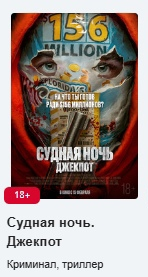
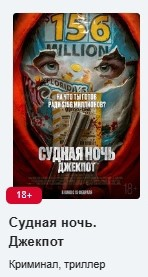
добавил наведение на кнопки
добавил затемненные фотки для изменения при наведении

diff --git a/zakaz.py b/zakaz.py
@@ -345,6 +345,8 @@ ________________________________________________________________________'''
         korz.bind('<Leave>', bk1)
         sn.grab_set()
         sn.mainloop()
+
+
 #АФИША С ВЫБОРОМ ФИЛЬМА
     def bk(e):
         korz.configure(bg=dgr)
@@ -361,15 +363,65 @@ ________________________________________________________________________'''
     lw1.pack(anchor=W)
     w1.title('Афиша')
     ik1 = PhotoImage(file='Майор Гром.png')
+    ik1t = PhotoImage(file='Майор Гром темный.png')
+    def dk1(e):
+        k1['image'] = ik1
+    def dk1t(e):
+        k1['image'] = ik1t
     ik2 = PhotoImage(file='Министерство неджентельменских дел.png')
+    ik2t = PhotoImage(file='Министерство неджентельменских дел темный.png')
+    def dk2(e):
+        k2['image'] = ik2
+    def dk2t(e):
+        k2['image'] = ik2t
     ik3 = PhotoImage(file='Планета обезьян.png')
+    ik3t = PhotoImage(file='Планета обезьян темный.png')
+    def dk3(e):
+        k3['image'] = ik3
+    def dk3t(e):
+        k3['image'] = ik3t
     ik4 = PhotoImage(file='Пушистый вояж.png')
+    ik4t = PhotoImage(file='Пушистый вояж темный.png')
+    def dk4(e):
+        k4['image'] = ik4
+    def dk4t(e):
+        k4['image'] = ik4t
     ik5 = PhotoImage(file='Сто лет тому вперед.png')
+    ik5t = PhotoImage(file='Сто лет тому вперед темный.png')
+    def dk5(e):
+        k5['image'] = ik5
+    def dk5t(e):
+        k5['image'] = ik5t
     ik6 = PhotoImage(file='незнакомцы.png')
+    ik6t = PhotoImage(file='Незнакомцы темная.png')
+    def dk6(e):
+        k6['image'] = ik6
+    def dk6t(e):
+        k6['image'] = ik6t
     ik7 = PhotoImage(file='Винни Пух.png')
+    ik7t = PhotoImage(file='Винни Пух темный.png')
+    def dk7(e):
+        k7['image'] = ik7
+    def dk7t(e):
+        k7['image'] = ik7t
     ik8 = PhotoImage(file='суперпташки.png')
+    ik8t = PhotoImage(file='суперпташки темная.png')
+    def dk8(e):
+        k8['image'] = ik8
+    def dk8t(e):
+        k8['image'] = ik8t
     ik9 = PhotoImage(file='судная ночь.png')
+    ik9t = PhotoImage(file='судная ночь темный.png')
+    def dk9(e):
+        k9['image'] = ik9
+    def dk9t(e):
+        k9['image'] = ik9t
     ik10 = PhotoImage(file='Асфальтовые джунгли.png')
+    ik10t = PhotoImage(file='Асфальтовые джунгли темный.png')
+    def dk10(e):
+        k10['image'] = ik10
+    def dk10t(e):
+        k10['image'] = ik10t
     kor = PhotoImage(file='kor.png')
 
     korz = Button(w1, image=kor, borderwidth=0, height=300, bg='#93F9B9', width=30, command=korz1, activebackground=dgr)
@@ -379,24 +431,44 @@ ________________________________________________________________________'''
 
     k1 = Button(w1, image=ik1, bg=wh, borderwidth=0, activebackground=wh, command=sn1)
     k1.place(x=0, y=0)
+    k1.bind('<Enter>', dk1t)
+    k1.bind('<Leave>', dk1)
     k2 = Button(w1, image=ik2, bg=wh, borderwidth=0, activebackground=wh, command=tof1)
     k2.place(x=153, y=0)
+    k2.bind('<Enter>', dk2t)
+    k2.bind('<Leave>', dk2)
     k3 = Button(w1, image=ik3, bg=wh, borderwidth=0, activebackground=wh, command=zam1)
     k3.place(x=303, y=0)
+    k3.bind('<Enter>', dk3t)
+    k3.bind('<Leave>', dk3)
     k4 = Button(w1, image=ik4, bg=wh, borderwidth=0, activebackground=wh, command=vit)
     k4.place(x=452, y=0)
+    k4.bind('<Enter>', dk4t)
+    k4.bind('<Leave>', dk4)
     k5 = Button(w1, image=ik5, bg=wh, borderwidth=0, activebackground=wh, command=sltn)
     k5.place(x=600, y=0)
+    k5.bind('<Enter>', dk5t)
+    k5.bind('<Leave>', dk5)
     k6 = Button(w1, image=ik6, bg=wh, borderwidth=0, activebackground=wh, command=nez)
     k6.place(x=0, y=319)
+    k6.bind('<Enter>', dk6t)
+    k6.bind('<Leave>', dk6)
     k7 = Button(w1, image=ik7, bg=wh, borderwidth=0, activebackground=wh, command=vp)
     k7.place(x=153, y=319)
+    k7.bind('<Enter>', dk7t)
+    k7.bind('<Leave>', dk7)
     k8 = Button(w1, image=ik8, bg=wh, borderwidth=0, activebackground=wh, command=superp)
     k8.place(x=303, y=319)
+    k8.bind('<Enter>', dk8t)
+    k8.bind('<Leave>', dk8)
     k9 = Button(w1, image=ik9, bg=wh, borderwidth=0, activebackground=wh, command=sudn)
     k9.place(x=452, y=319)
+    k9.bind('<Enter>', dk9t)
+    k9.bind('<Leave>', dk9)
     k10 = Button(w1, image=ik10, bg=wh, borderwidth=0, activebackground=wh, command=adel)
     k10.place(x=600, y=319)
+    k10.bind('<Enter>', dk10t)
+    k10.bind('<Leave>', dk10)
 
     w1.grab_set()
     w1.mainloop()
